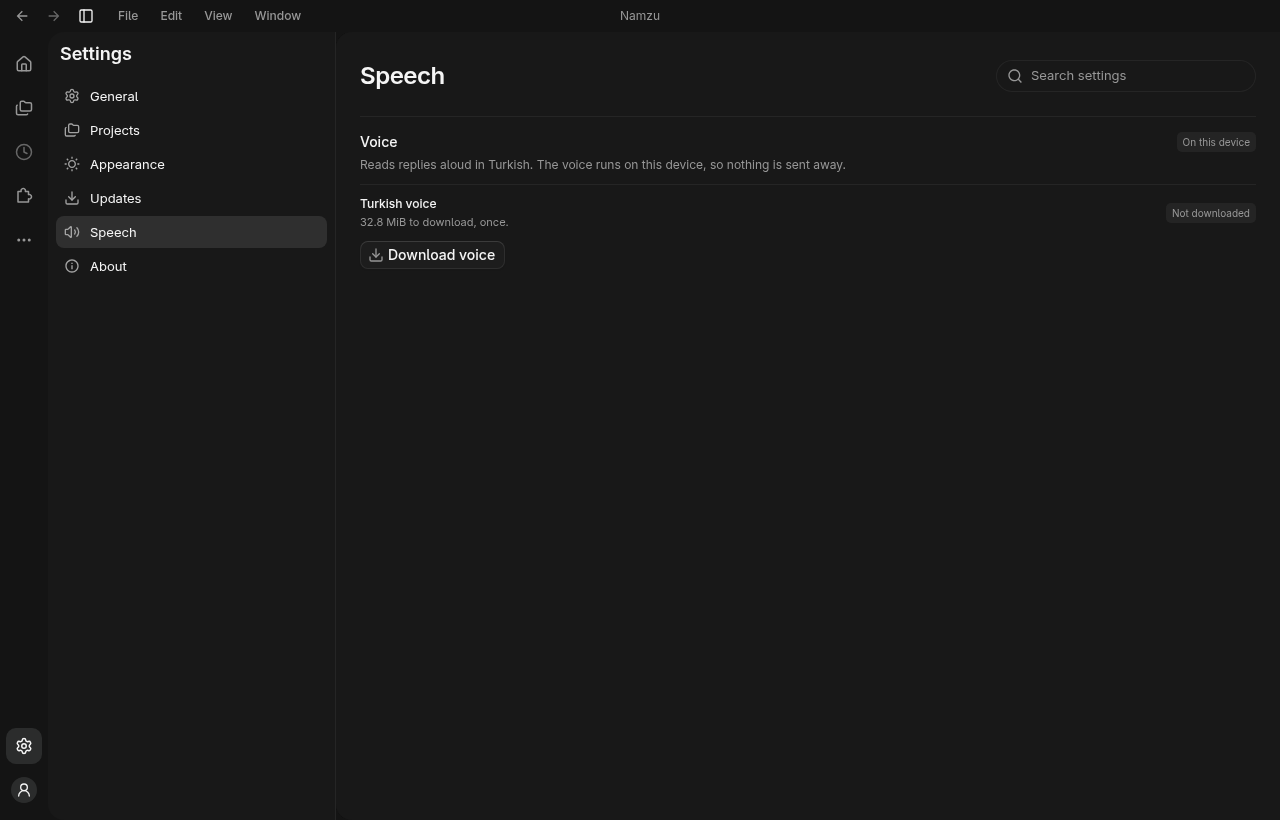
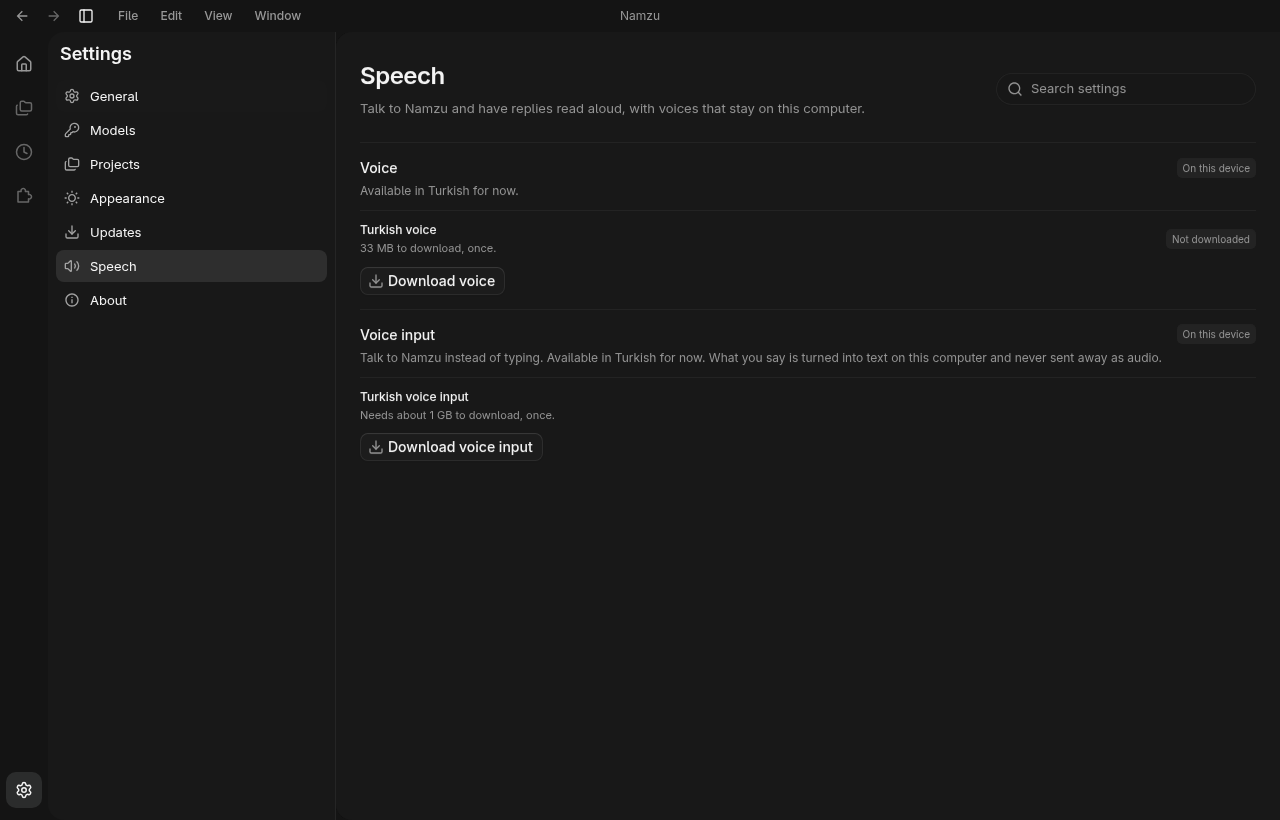
fix(desktop): draw voice lines above the composer and prove voice end to end
The voice agreement, the listening line and voice notices rendered after
the composer overlay, at the bottom of the pane and under it, so the
agreement's button could not be clicked. They now sit in the composer
stack, right above the box and at its width. The microphone switch in
Settings stacks its note under its label like the read-aloud card does.

A new opt-in Electron flow plays a recorded Turkish command into
Chromium's fake capture device and checks that the microphone, the
agreement, the listening engine and the send path turn it into a message
the scripted model answers, with dark and light screenshots. The harness
takes extra Electron switches for it, and the Speech settings flow tells
the two cards apart now that the page has both.

diff --git a/packages/desktop/src/renderer/composer.tsx b/packages/desktop/src/renderer/composer.tsx
@@ -133,9 +133,12 @@ export function Composer({
 	onOpenPlugins,
 	onSetPluginEnabled,
 	speechControl,
+	speechStatus,
 	surface,
 }: {
 	speechControl?: ReactNode
+	/** Voice lines (the one-time agreement, "Listening…", what just happened), drawn right above the box. */
+	speechStatus?: ReactNode
 	/** "Desktop | CLI": CLI sends open the engine's own command line in a terminal tab. */
 	surface?: EngineSurfaceControl
 	/** Why sending is blocked right now, in words, shown above the text the person may still type. */
@@ -473,6 +476,7 @@ export function Composer({
 							</h1>
 						</div>
 					)}
+					{speechStatus}
 					{shownLiveInputs.length > 0 && (
 						<div className="queue px-3 pb-2 text-xs text-muted-foreground" aria-live="polite">
 							{[

diff --git a/packages/desktop/src/renderer/app.tsx b/packages/desktop/src/renderer/app.tsx
@@ -7071,6 +7071,7 @@ export function App({
 										onOpenSettings={() => openSettings('speech', 'voice-input')}
 									/>
 								}
+								speechStatus={<VoiceInputStatus voice={voice} />}
 								running={thread.running}
 								liveInputSupported={thread.liveInputSupported && !palConversation}
 								liveInputs={thread.liveInputs}
@@ -7085,7 +7086,6 @@ export function App({
 								onEditQueued={(itemId) => void act(() => editQueued(itemId))}
 								onRemoveQueued={(itemId) => void act(() => api.removeQueued(sessionId, itemId))}
 							/>
-							<VoiceInputStatus voice={voice} />
 							{speech.error && (
 								<p className="inline-error" role="alert">
 									{speech.error}

diff --git a/packages/desktop/src/renderer/voice-input.css b/packages/desktop/src/renderer/voice-input.css
@@ -68,7 +68,8 @@
 	display: flex;
 	flex-direction: column;
 	gap: 6px;
-	margin: 6px 4px 0;
+	/* Inside the composer stack, above the box: the agreement card takes the box's own width. */
+	padding: 0 0 8px;
 	font-size: 12px;
 	line-height: 1.5;
 	color: var(--muted-foreground);
@@ -78,6 +79,7 @@
 	align-items: center;
 	gap: 6px;
 	margin: 0;
+	padding: 0 12px;
 }
 .voice-listening::before {
 	content: "";
@@ -93,6 +95,7 @@
 	justify-content: space-between;
 	gap: 8px;
 	margin: 0;
+	padding: 0 12px;
 }
 .voice-notice[data-kind="error"] {
 	color: var(--error-foreground);

diff --git a/packages/desktop/src/renderer/local-speech-settings.css b/packages/desktop/src/renderer/local-speech-settings.css
@@ -164,12 +164,13 @@
 .local-speech-resource-details [data-slot="collapsible-panel"] dl {
 	padding-top: 6px;
 }
-.local-speech-memory span {
+/* A switch with a note under its label, in either speech card. */
+.local-speech-toggle > span:has(> small) {
 	display: flex;
 	flex-direction: column;
 	gap: 2px;
 }
-.local-speech-memory small {
+.local-speech-toggle small {
 	color: var(--muted-foreground);
 	font-size: 10px;
 }

diff --git a/packages/desktop/e2e/README.md b/packages/desktop/e2e/README.md
@@ -114,3 +114,15 @@ the waiting line on the Pal's page, the plain "computer is not available" answer
 `NAMZU_E2E_PAL_COMPUTER=fake`, which `cli-entry.mjs` answers with `fake-pal-computer-hooks.mjs`: `@namzu/sandbox` keeps
 every export but its computer provider, whose guest is a recorder, so the real host and the real dispatch read the
 message with no Docker. Pictures go to `research/pal-wake-20261009/`.
+
+## Voice input
+
+`ux-voice-input.test.mjs` plays a recorded Turkish command into Chromium's fake capture device
+(`--use-file-for-fake-audio-capture`, passed through `createWorld({ electronArgs })`) and checks that the
+composer microphone, the one-time agreement, the on-device listening engine and the send path turn it into a
+message the scripted model answers. It is opt-in because it needs the ~1 GB of listening models on disk: set
+`NAMZU_LOCAL_LISTENING_MODELS` (the four pinned files; they are hard-linked into the test profile, so the folder
+must be on the same filesystem as the temp directory) and `NAMZU_LOCAL_LISTENING_WAVS` (a folder with
+`cmd02.wav`, 16 kHz mono, "Bugünkü toplantılarımı listele."). Dark and light screenshots, including the
+Settings card, land in `research/voice-input-20261016/`. A real microphone, echo cancellation and Windows
+permissions are not covered: Xvfb has no audio device.
